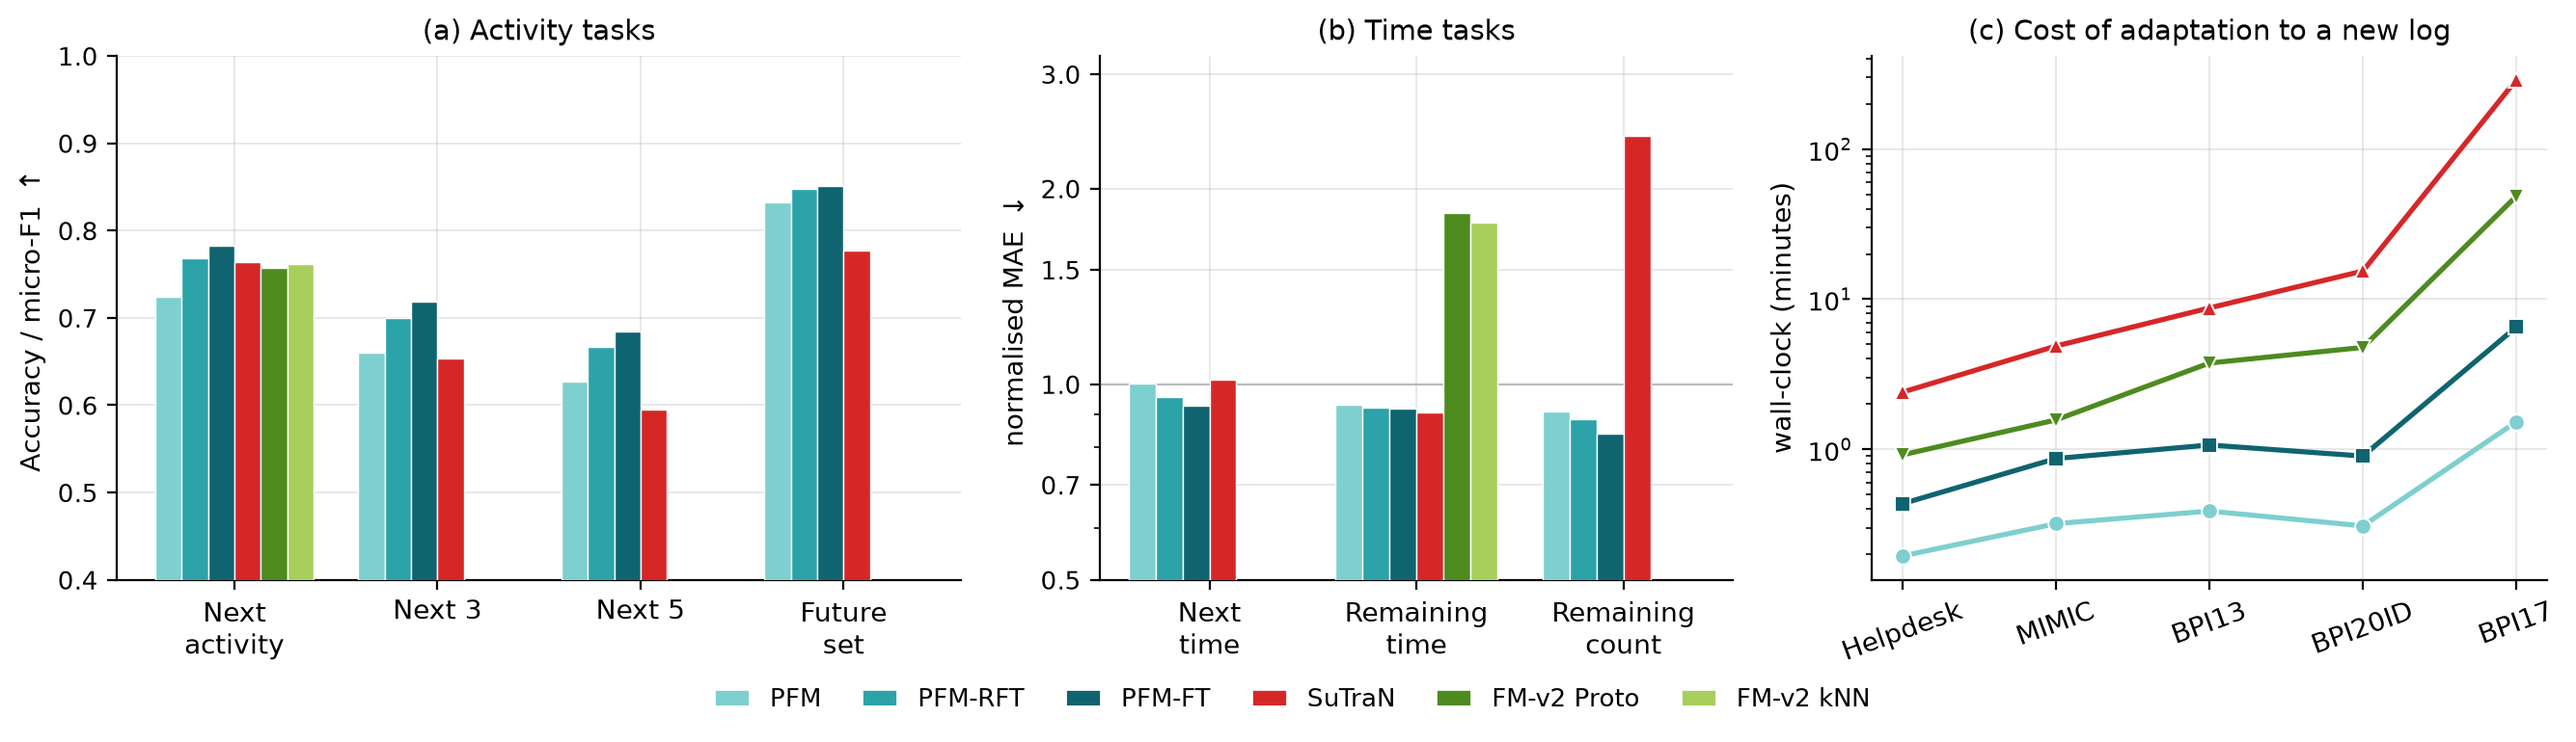
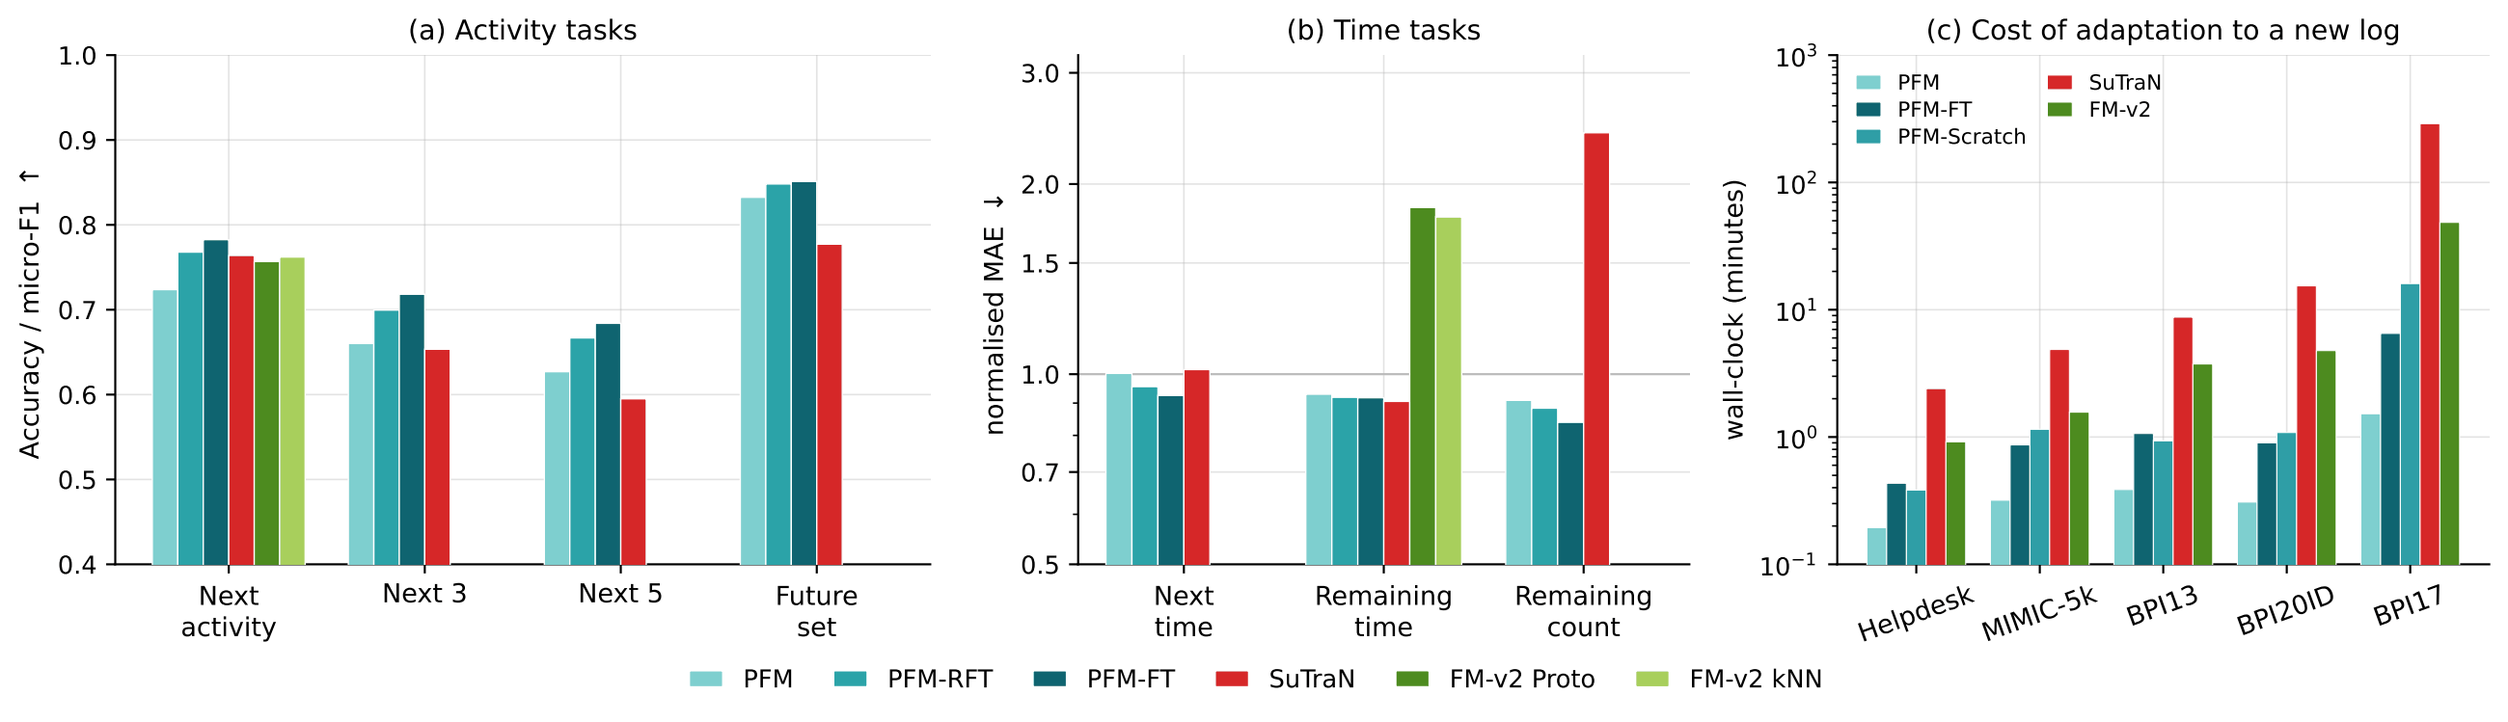
Draw the adaptation cost as bars, as in the manuscript
Panel (c) of the merged SOTA figure was a line plot over five logs, which reads
as a trend across unrelated datasets. It is now the grouped bar chart the paper
uses, with the same five series: PFM (cached), PFM-FT, PFM-Scratch, SuTraN and
FM-v2, a log axis from 0.1 to 1000 minutes and the MIMIC-5k label. The README
timing table gains the PFM-Scratch column so it matches the figure.

diff --git a/figures/sota_wall_plot.py b/figures/sota_wall_plot.py
@@ -70,16 +70,25 @@ ax = axes[2]
 x = np.arange(len(LOGS))
 # \PFM's adaptation cost is measured with the frozen features CACHED once per log (the backbone is
 # frozen, so it need not be re-run every epoch); PFM-RFT is left out of this panel for readability.
-for name, method, tasks, mk in (("PFM", "PFM-cached", 2, "o"), ("PFM-FT", "PFM-FT", 2, "s"),
-                                ("SuTraN", "SuTraN", 7, "^"), ("FM-v2", "FM-v2", 2, "v")):
+# PFM-Scratch is the same architecture trained end to end from random init on the target log.
+# SuTraN's `7` is the timing file's task count: all seven tasks are SCORED from its outputs, but it
+# trains only its three prediction heads in one joint run per log.
+WALL = [("PFM", "PFM-cached", 2, "#7ecfcf"), ("PFM-FT", "PFM-FT", 2, "#0f6470"),
+        ("PFM-Scratch", "PFM-Scratch", 2, "#2f9ea6"), ("SuTraN", "SuTraN", 7, "#d62728"),
+        ("FM-v2", "FM-v2", 2, "#4d8b1f")]
+bw = 0.16
+for j, (name, method, tasks, color) in enumerate(WALL):
     y = [minutes(lg, method, tasks) for lg, _ in LOGS]
-    ax.plot(x, y, color=COL["FM-v2 Proto" if name == "FM-v2" else name], ls="solid", marker=mk, ms=6, lw=1.9,
-            markeredgecolor="white", markeredgewidth=0.7, label=name)
+    ax.bar(x + (j - (len(WALL) - 1) / 2) * bw, y, width=bw, color=color, edgecolor="white",
+           linewidth=0.4, label=name, zorder=3)
 ax.set_yscale("log")
+ax.set_ylim(0.1, 1000)          # bars start at 0.1 min; headroom above for the panel legend
 ax.set_xticks(list(x))
-ax.set_xticklabels([n for _, n in LOGS], rotation=20)
+ax.set_xticklabels([("MIMIC-5k" if n == "MIMIC" else n) for _, n in LOGS], rotation=20)
 ax.set_ylabel("wall-clock (minutes)", fontsize=10)
 ax.set_title("(c) Cost of adaptation to a new log", fontsize=10.5)
+ax.legend(fontsize=8, ncol=2, frameon=False, loc="upper left", handlelength=1.2,
+          columnspacing=1.0, labelspacing=0.3)
 for sp in ("top", "right"):
     ax.spines[sp].set_visible(False)
 
@@ -105,7 +114,8 @@ minutes to adapt to a log and score its test partition for the two tasks all met
 one job at a time, one seed; \emph{FM-v2} embeds once for both read-outs. Because the \PFM{} backbone is frozen its states do
 not depend on the head weights, so they are encoded once per log and both heads are trained from the cached tensors; this
 reaches the same test metrics as re-running the backbone every epoch (max difference $0.009$ accuracy, $3.6\%$ MAE) and is
-what the \PFM{} line reports. \PFM-RFT is omitted from this panel. \emph{\PFM}: frozen backbone with trained heads;
+what the \PFM{} bar reports. \PFM-Scratch is the same architecture trained end to end from random
+init on the target log; \PFM-RFT is omitted from this panel. \emph{\PFM}: frozen backbone with trained heads;
 \emph{\PFM-RFT}: frozen backbone with the role encoder (9.5k parameters, $0.19\%$ of the backbone) trained
 alongside the head; \emph{\PFM-FT}: \PFM{} fine-tuned end to end; \emph{SuTraN}: SuTraN-EW-NDA, official recipe, three seeds; \emph{FM-v2
 Proto/kNN}: retrieval read-outs of the events-transf foundation model with $k$ selected on validation (next activity and

diff --git a/README.md b/README.md
@@ -185,13 +185,13 @@ table as the paper. Against **FM-v2** neither method dominates on the two tasks 
 Panel (c) is the part the paper leads with. Adapting to a new log and scoring its test partition, on
 one NVIDIA H200, for the two tasks every method supports:
 
-| Log | PFM | PFM-FT | FM-v2 | SuTraN |
-|---|---|---|---|---|
-| Helpdesk | **0.19** | 0.43 | 0.92 | 2.40 |
-| MIMIC | **0.32** | 0.87 | 1.57 | 4.87 |
-| BPI13 | **0.39** | 1.07 | 3.75 | 8.73 |
-| BPI20ID | **0.31** | 0.90 | 4.77 | 15.38 |
-| BPI17 | **1.52** | 6.52 | 48.52 | 289.57 |
+| Log | PFM | PFM-FT | PFM-Scratch | FM-v2 | SuTraN |
+|---|---|---|---|---|---|
+| Helpdesk | **0.19** | 0.43 | 0.38 | 0.92 | 2.40 |
+| MIMIC-5k | **0.32** | 0.87 | 1.15 | 1.57 | 4.87 |
+| BPI13 | **0.39** | 1.07 | 0.93 | 3.75 | 8.73 |
+| BPI20ID | **0.31** | 0.90 | 1.08 | 4.77 | 15.38 |
+| BPI17 | **1.52** | 6.52 | 16.03 | 48.52 | 289.57 |
 
 Minutes. PFM's figure uses **cached features**: because the backbone is frozen its states do not
 depend on head weights, so it is encoded once per log and every head trains from the cache. That
